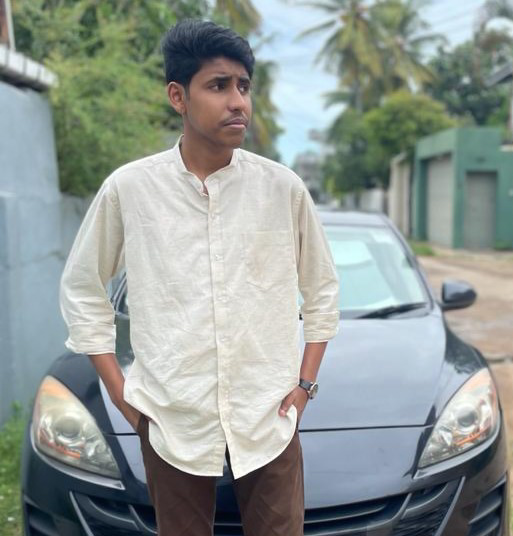
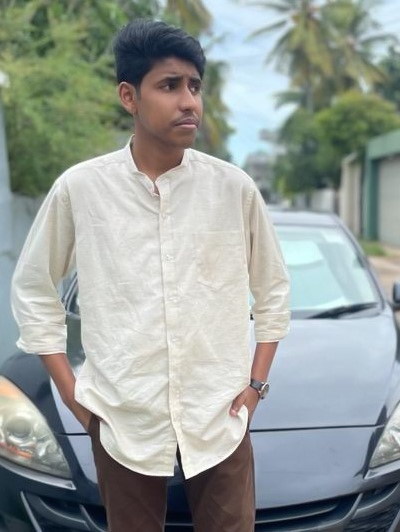
seventh commit

diff --git a/index.html b/index.html
@@ -54,7 +54,7 @@
 
        <div class="container">
            <p>I am a YouTuber, Freelancer, Developer, Founder and CEO. </p>
-               <center><img src="images/WhatsApp Image 2021-05-14 at 6.03.49 PM.jpeg" width="500" height="700" alt="image"> </center>
+               <center><img src="images/WhatsApp Image 2021-05-14 at 6.03_edited.jpg" width="500" height="700" alt="image"> </center>
     
        </div>
         <div class="contents" id="aboutme">

diff --git a/css/style.css b/css/style.css
@@ -1,9 +1,8 @@
 @import url('https://fonts.googleapis.com/css2?family=Raleway&display=swap');
 
 body{
-  background-image: url('images/repeated-square.png');
+  background-image: url('/images/repeated-square.png');
   font-family: 'Raleway', sans-serif;
-  
 }
 
 
